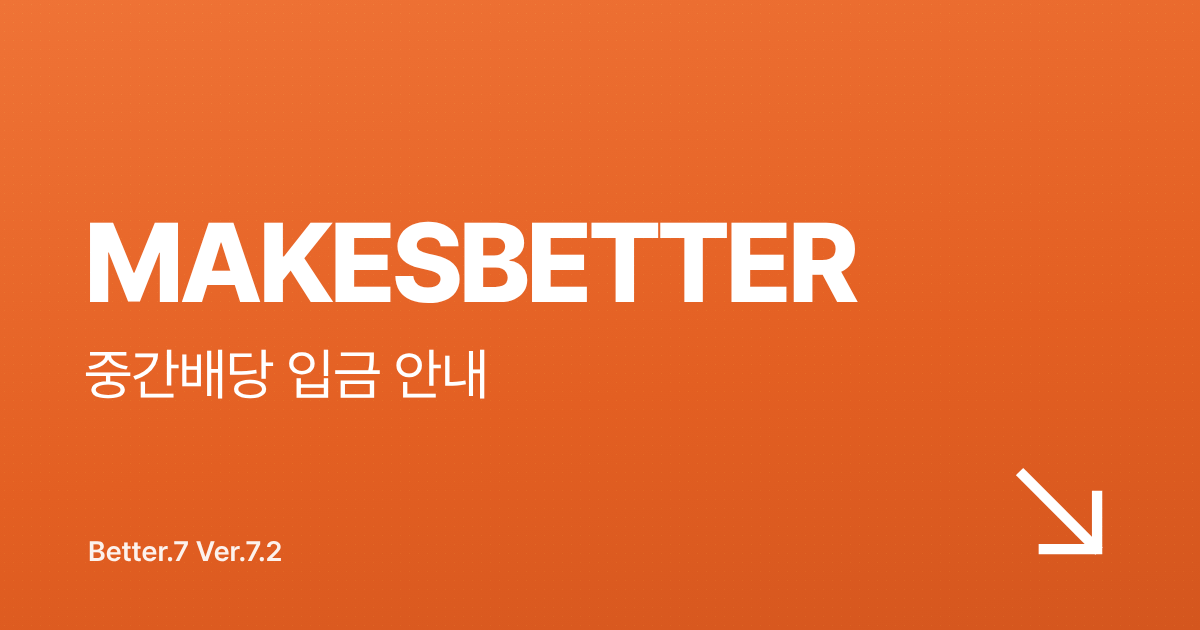
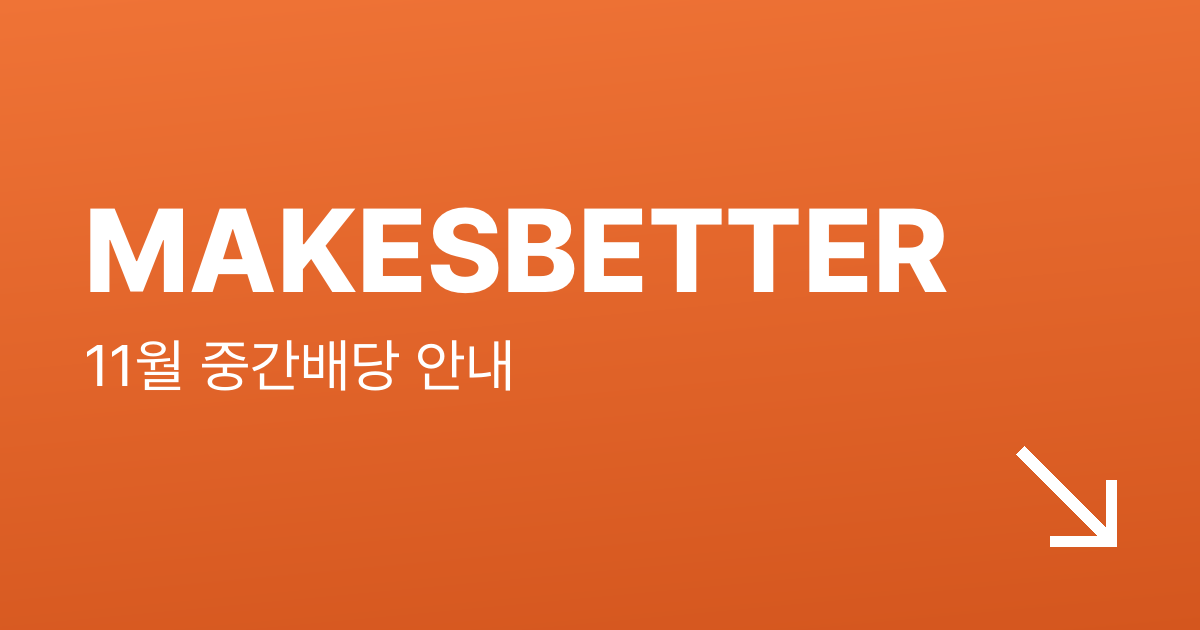
월배당 안내: 썸네일·카드 문구 정리(○월 중간배당 안내 / 제2의 급여 확인하세요), 줄맞춤, 달 바뀌면 자동 갱신
Claude-Session: https://claude.ai/code/session_01AK1nvLUVWxd12Ns9kLYVVR

diff --git a/monthly/end.html b/monthly/end.html
@@ -4,15 +4,15 @@
 <meta charset="utf-8">
 <meta name="viewport" content="width=device-width,initial-scale=1,viewport-fit=cover">
 <meta name="theme-color" content="#FFFFFF">
-<meta name="description" content="Better.7 월배당 입금일과 1좌당 분배금, 내가 받을 금액 계산">
+<meta name="description" content="제2의 급여 확인하세요">
 <meta property="og:type" content="website">
-<meta property="og:title" content="MAKESBETTER 월말배당 입금 안내">
-<meta property="og:image" content="https://calc.makesbetter.co.kr/monthly/og2.png?v=1">
+<meta property="og:title" content="11월 월말배당 안내">
+<meta property="og:image" content="https://calc.makesbetter.co.kr/monthly/og2.png?v=2611">
 <meta property="og:image:width" content="1200">
 <meta property="og:image:height" content="630">
 <meta property="og:url" content="https://calc.makesbetter.co.kr/monthly2">
-<meta property="og:description" content="Better.7 Ver.7.2 · 입금일과 1좌당 분배금, 내가 받을 금액">
-<title>배당 입금 안내 | MAKESBETTER</title>
+<meta property="og:description" content="제2의 급여 확인하세요">
+<title>월배당 안내 | MAKESBETTER</title>
 <link rel="icon" href="/studio/icon-32.png">
 <link rel="stylesheet" href="https://cdn.jsdelivr.net/gh/orioncactus/pretendard@v1.3.9/dist/web/variable/pretendardvariable-dynamic-subset.min.css">
 <style>
@@ -41,7 +41,8 @@ body.end .now .dot{border-color:var(--teal);box-shadow:0 0 0 6px var(--teal-soft
 .cv-mid{position:absolute;left:var(--g);right:var(--g);top:50%;transform:translateY(-50%)}
 .cv-wrap{display:block;overflow:hidden;padding-bottom:.1em}
 .cv-line{display:block;font-size:clamp(34px,10.2vw,58px);line-height:1.02;font-weight:800;letter-spacing:-.04em;transform:translateY(110%);transition:transform .95s cubic-bezier(.2,.8,.2,1)}
-.cv-low{font-size:clamp(21px,6.3vw,34px);line-height:1.25;margin-top:12px;font-weight:400;letter-spacing:-.02em;transition-delay:.14s}
+.cv-line:not(.cv-low){margin-left:-.045em}
+.cv-low{margin-left:-.1em;font-size:clamp(21px,6.3vw,34px);line-height:1.25;margin-top:12px;font-weight:400;letter-spacing:-.02em;transition-delay:.14s}
 .cover.on .cv-line{transform:none}
 .cv-arrow{position:absolute;right:var(--g);bottom:calc(40px + env(safe-area-inset-bottom,0px));width:68px;height:68px;border:0;background:none;color:#fff;opacity:0;transition:opacity .6s 1.2s;cursor:pointer}
 .cv-arrow svg{width:100%;height:100%;display:block;stroke:currentColor;stroke-width:6;stroke-linecap:square;stroke-linejoin:miter;fill:none}
@@ -147,7 +148,7 @@ h2{font-size:26px;line-height:1.38;font-weight:700;letter-spacing:-.035em}
 <div class="cover" id="cover" role="dialog" aria-label="시작 화면">
   <div class="cv-mid">
     <span class="cv-wrap"><b class="cv-line">MAKESBETTER</b></span>
-    <span class="cv-wrap"><b class="cv-line cv-low" id="cvLow">배당 입금 안내</b></span>
+    <span class="cv-wrap"><b class="cv-line cv-low" id="cvLow">월배당 안내</b></span>
   </div>
   <button class="cv-arrow" type="button" aria-label="열기"><svg viewBox="0 0 64 64" aria-hidden="true"><path class="ln" d="M10 10 L52 52"/><path class="hd" d="M53 22 V53 H22"/></svg></button>
 </div>
@@ -232,7 +233,7 @@ function view(code){var h=hist(code),cur=h.filter(function(e){return e.ym===ym})
 
 if(T==='end'){document.body.classList.add('end');var tc=document.querySelector('meta[name=theme-color]');}
 var mo=+ym.slice(5),title=mo+'월 '+TN;
-$('cvLow').textContent=title+' 입금 안내';$('chip').textContent=title;document.title=title+' 입금 안내 | MAKESBETTER';
+$('cvLow').textContent=title+' 안내';$('chip').textContent=title;document.title=title+' 안내 | MAKESBETTER';
 if(!ev.length){$('head').textContent='일정을 불러오지 못했습니다';return}
 var buy=ev[0].buy,rec=ev[0].rec,pays=ev.map(function(e){return e.pay}).filter(function(v,i,a){return a.indexOf(v)===i}).sort(),p0=pays[0],p1=pays[pays.length-1];
 var payK=kd(p0)+(p1!==p0?'~'+(+p1.slice(8))+'일':' '+dw(p0)+'요일');

diff --git a/monthly/index.html b/monthly/index.html
@@ -4,15 +4,15 @@
 <meta charset="utf-8">
 <meta name="viewport" content="width=device-width,initial-scale=1,viewport-fit=cover">
 <meta name="theme-color" content="#FFFFFF">
-<meta name="description" content="Better.7 월배당 입금일과 1좌당 분배금, 내가 받을 금액 계산">
+<meta name="description" content="제2의 급여 확인하세요">
 <meta property="og:type" content="website">
-<meta property="og:title" content="MAKESBETTER 중간배당 입금 안내">
-<meta property="og:image" content="https://calc.makesbetter.co.kr/monthly/og1.png?v=1">
+<meta property="og:title" content="11월 중간배당 안내">
+<meta property="og:image" content="https://calc.makesbetter.co.kr/monthly/og1.png?v=2611">
 <meta property="og:image:width" content="1200">
 <meta property="og:image:height" content="630">
 <meta property="og:url" content="https://calc.makesbetter.co.kr/monthly1">
-<meta property="og:description" content="Better.7 Ver.7.2 · 입금일과 1좌당 분배금, 내가 받을 금액">
-<title>배당 입금 안내 | MAKESBETTER</title>
+<meta property="og:description" content="제2의 급여 확인하세요">
+<title>월배당 안내 | MAKESBETTER</title>
 <link rel="icon" href="/studio/icon-32.png">
 <link rel="stylesheet" href="https://cdn.jsdelivr.net/gh/orioncactus/pretendard@v1.3.9/dist/web/variable/pretendardvariable-dynamic-subset.min.css">
 <style>
@@ -41,7 +41,8 @@ body.end .now .dot{border-color:var(--teal);box-shadow:0 0 0 6px var(--teal-soft
 .cv-mid{position:absolute;left:var(--g);right:var(--g);top:50%;transform:translateY(-50%)}
 .cv-wrap{display:block;overflow:hidden;padding-bottom:.1em}
 .cv-line{display:block;font-size:clamp(34px,10.2vw,58px);line-height:1.02;font-weight:800;letter-spacing:-.04em;transform:translateY(110%);transition:transform .95s cubic-bezier(.2,.8,.2,1)}
-.cv-low{font-size:clamp(21px,6.3vw,34px);line-height:1.25;margin-top:12px;font-weight:400;letter-spacing:-.02em;transition-delay:.14s}
+.cv-line:not(.cv-low){margin-left:-.045em}
+.cv-low{margin-left:-.1em;font-size:clamp(21px,6.3vw,34px);line-height:1.25;margin-top:12px;font-weight:400;letter-spacing:-.02em;transition-delay:.14s}
 .cover.on .cv-line{transform:none}
 .cv-arrow{position:absolute;right:var(--g);bottom:calc(40px + env(safe-area-inset-bottom,0px));width:68px;height:68px;border:0;background:none;color:#fff;opacity:0;transition:opacity .6s 1.2s;cursor:pointer}
 .cv-arrow svg{width:100%;height:100%;display:block;stroke:currentColor;stroke-width:6;stroke-linecap:square;stroke-linejoin:miter;fill:none}
@@ -147,7 +148,7 @@ h2{font-size:26px;line-height:1.38;font-weight:700;letter-spacing:-.035em}
 <div class="cover" id="cover" role="dialog" aria-label="시작 화면">
   <div class="cv-mid">
     <span class="cv-wrap"><b class="cv-line">MAKESBETTER</b></span>
-    <span class="cv-wrap"><b class="cv-line cv-low" id="cvLow">배당 입금 안내</b></span>
+    <span class="cv-wrap"><b class="cv-line cv-low" id="cvLow">월배당 안내</b></span>
   </div>
   <button class="cv-arrow" type="button" aria-label="열기"><svg viewBox="0 0 64 64" aria-hidden="true"><path class="ln" d="M10 10 L52 52"/><path class="hd" d="M53 22 V53 H22"/></svg></button>
 </div>
@@ -232,7 +233,7 @@ function view(code){var h=hist(code),cur=h.filter(function(e){return e.ym===ym})
 
 if(T==='end'){document.body.classList.add('end');var tc=document.querySelector('meta[name=theme-color]');}
 var mo=+ym.slice(5),title=mo+'월 '+TN;
-$('cvLow').textContent=title+' 입금 안내';$('chip').textContent=title;document.title=title+' 입금 안내 | MAKESBETTER';
+$('cvLow').textContent=title+' 안내';$('chip').textContent=title;document.title=title+' 안내 | MAKESBETTER';
 if(!ev.length){$('head').textContent='일정을 불러오지 못했습니다';return}
 var buy=ev[0].buy,rec=ev[0].rec,pays=ev.map(function(e){return e.pay}).filter(function(v,i,a){return a.indexOf(v)===i}).sort(),p0=pays[0],p1=pays[pays.length-1];
 var payK=kd(p0)+(p1!==p0?'~'+(+p1.slice(8))+'일':' '+dw(p0)+'요일');

diff --git a/scripts/update_monthly_og.py b/scripts/update_monthly_og.py
@@ -1,0 +1,82 @@
+#!/usr/bin/env python3
+"""
+월배당 안내(/monthly1·2) 카톡 썸네일·카드 문구를 이번 회차 달에 맞춘다.
+- studio/dividends.json 에서 회차(중간/월말)별 '지급 전 가장 가까운 달'을 고른다 (페이지와 같은 규칙)
+- monthly/og1.png(중간·주황), og2.png(월말·청록) 를 그리고 monthly/index.html, end.html 의 og 태그를 고친다
+출력: og_changed=true|false
+"""
+import json, os, re, sys, datetime
+from PIL import Image, ImageDraw, ImageFont
+
+ROOT = os.path.dirname(os.path.dirname(os.path.abspath(__file__)))
+FB = os.path.join(ROOT, "scripts/fonts/og-bold.otf")
+FR = os.path.join(ROOT, "scripts/fonts/og-regular.otf")
+CODES = {"mid": ["498400", "480030", "441640"], "end": ["494300", "0022T0", "332610", "473330"]}
+CONF = {"mid": ("중간배당", "og1.png", "index.html", [(239, 115, 54), (212, 86, 30)]),
+        "end": ("월말배당", "og2.png", "end.html", [(31, 163, 160), (15, 111, 116)])}
+DESC = "제2의 급여 확인하세요"
+W, H, PAD = 1200, 630, 84
+
+
+def cur_month(ev, cyc, today):
+    mine = [e for e in ev if e["cyc"] == cyc and e["code"] in CODES[cyc]]
+    yms = sorted({e["ym"] for e in mine})
+    up = [ym for ym in yms if any(e["ym"] == ym and e["pay"] >= today for e in mine)]
+    ym = up[0] if up else (yms[-1] if yms else None)
+    return ym
+
+
+def draw(path, line2, cols):
+    im = Image.new("RGB", (W, H))
+    px = im.load()
+    a, b = cols
+    for y in range(H):
+        for x in range(W):
+            t = min(1.0, max(0.0, (y / H) * 0.85 + (x / W) * 0.15))
+            px[x, y] = tuple(round(a[i] + (b[i] - a[i]) * t) for i in range(3))
+    d = ImageDraw.Draw(im)
+    f1, f2 = ImageFont.truetype(FB, 118), ImageFont.truetype(FR, 58)
+    b1, b2 = d.textbbox((0, 0), "MAKESBETTER", font=f1), d.textbbox((0, 0), line2, font=f2)
+    h1, h2, gap = b1[3] - b1[1], b2[3] - b2[1], 46
+    top = (H - (h1 + gap + h2)) // 2 - 16
+    # 두 줄의 왼쪽 '잉크' 끝을 정확히 같은 x(PAD)에 맞춘다
+    d.text((PAD - b1[0], top - b1[1]), "MAKESBETTER", font=f1, fill="white")
+    d.text((PAD - b2[0], top + h1 + gap - b2[1]), line2, font=f2, fill="white")
+    # 화살표: 오른쪽·아래 여백을 글자 왼쪽 여백과 같게
+    s, lw = 96, 11
+    x1, y1 = W - PAD, H - PAD
+    x0, y0 = x1 - s, y1 - s
+    d.line([(x0, y0), (x1 - lw // 2, y1 - lw // 2)], fill="white", width=lw)
+    d.line([(x1 - lw // 2, y0 + 30), (x1 - lw // 2, y1)], fill="white", width=lw)
+    d.line([(x0 + 30, y1 - lw // 2), (x1, y1 - lw // 2)], fill="white", width=lw)
+    im.save(path, optimize=True)
+
+
+def set_meta(html, prop, val):
+    return re.sub(r'(<meta property="%s" content=")[^"]*(")' % re.escape(prop), lambda m: m.group(1) + val + m.group(2), html, count=1)
+
+
+def main():
+    today = os.environ.get("TODAY") or (datetime.datetime.now(datetime.timezone.utc) + datetime.timedelta(hours=9)).strftime("%Y-%m-%d")
+    ev = json.load(open(os.path.join(ROOT, "studio/dividends.json"), encoding="utf-8"))["ev"]
+    changed = False
+    for cyc, (name, img, page, cols) in CONF.items():
+        ym = cur_month(ev, cyc, today)
+        if not ym:
+            continue
+        title = "%d월 %s 안내" % (int(ym[5:7]), name)
+        p = os.path.join(ROOT, "monthly", page)
+        html = open(p, encoding="utf-8").read()
+        new = set_meta(html, "og:title", title)
+        new = set_meta(new, "og:description", DESC)
+        new = set_meta(new, "og:image", "https://calc.makesbetter.co.kr/monthly/%s?v=%s" % (img, ym.replace("-", "")[2:]))
+        new = re.sub(r'(<meta name="description" content=")[^"]*(")', lambda m: m.group(1) + DESC + m.group(2), new, count=1)
+        if new != html or not os.path.exists(os.path.join(ROOT, "monthly", img)) or "--force" in sys.argv:
+            draw(os.path.join(ROOT, "monthly", img), title, cols)
+            open(p, "w", encoding="utf-8").write(new)
+            changed = True
+    print("og_changed=%s" % ("true" if changed else "false"))
+
+
+if __name__ == "__main__":
+    main()
